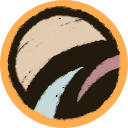
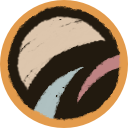
1.0.30

diff --git a/CHANGELOG.md b/CHANGELOG.md
@@ -1,5 +1,9 @@
 # Changelog
 
+## 1.0.30
+
+- Icon update
+
 ## 1.0.23 - 1.0.29
 
 - Color and style refinements
